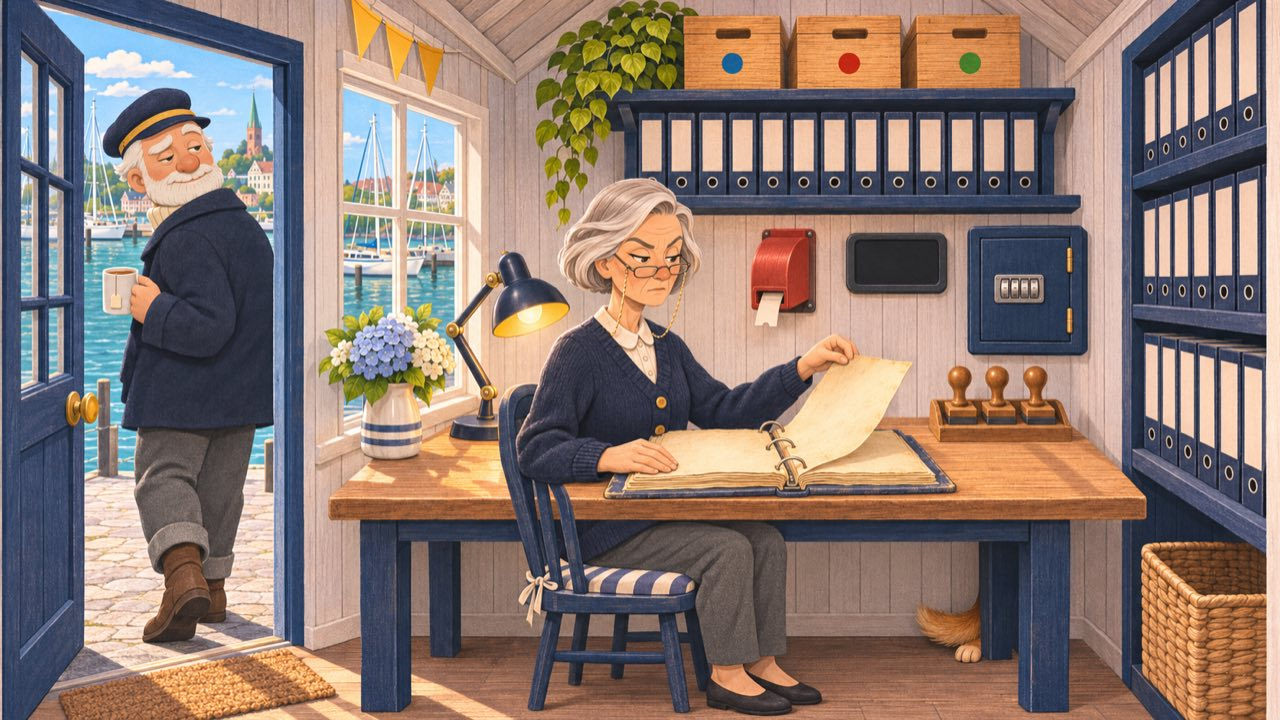
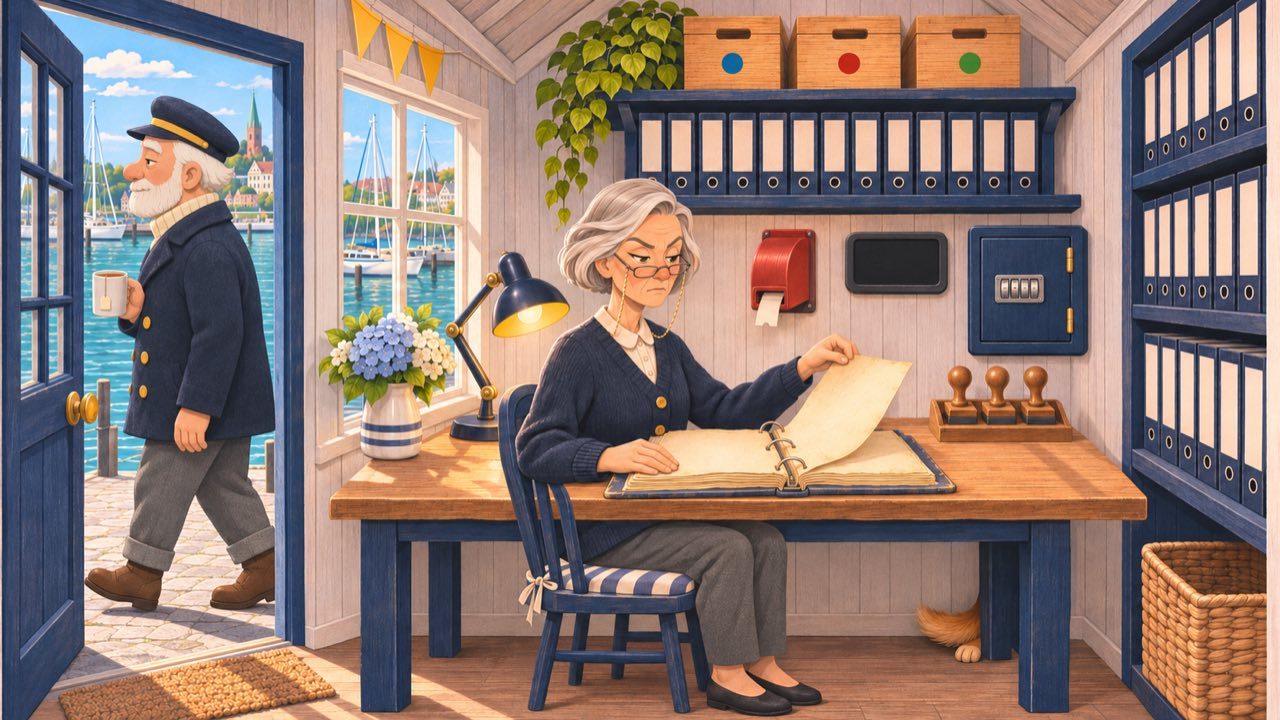
Redraw Jensen leaving the office in profile
In the chapter 3 office picture Jensen walked away from us toward the door
while his face looked straight back at the viewer, a head turned round by
almost 180 degrees. Codex redrew only him, walking out in profile with his
mug and his double-breasted coat as on the reference sheet; the rest of the
picture is unchanged.

diff --git a/public/story-img/README.md b/public/story-img/README.md
@@ -43,7 +43,7 @@
 - 03-morning.jpg — утро у клуба: чайка уносит старое фото из конверта на подставке, Хауке бросается следом. Перерисована: в первом варианте у Хауке не было видно правой руки (замечание автора 6 ноября). После перерисовки над его рукой в небе повисла церковь с домами; их закрасили небом, город остался только на дальнем берегу (замечание автора 7 ноября).
 - 03-photo1976.jpg — фото 1976 года с оторванным краем: Opa пишет MOIN, Oma с пирогом, мальчик с банкой.
 - 03-roof.jpg — семья чаек в гнезде на крыше клуба, в гнезде край фото; Элиф смотрит в бинокль.
-- 03-folder.jpg — фрау Петерсен листает папку, из-под стола хвост собаки; Йенсен уходит с кружкой.
+- 03-folder.jpg — фрау Петерсен листает папку, из-под стола хвост собаки; Йенсен уходит с кружкой. Йенсена перерисовали: в первом варианте он шёл к двери спиной, а лицом смотрел на зрителя, голова была развёрнута почти на 180°. Теперь он уходит в профиль (замечание автора 7 ноября).
 - 03-jensen.jpg — интерлюдия: Йенсен у домика гавани и семья туристов.
 - 03-poster.jpg — Лотта и Элиф с плакатом «Meine Familie», Хауке удивлён, Krümel в рюкзаке.
 - 03-cake.jpg — Матео на стуле с пирогом, все смотрят на Грету с салфеткой; дорожка крошек к двери.
